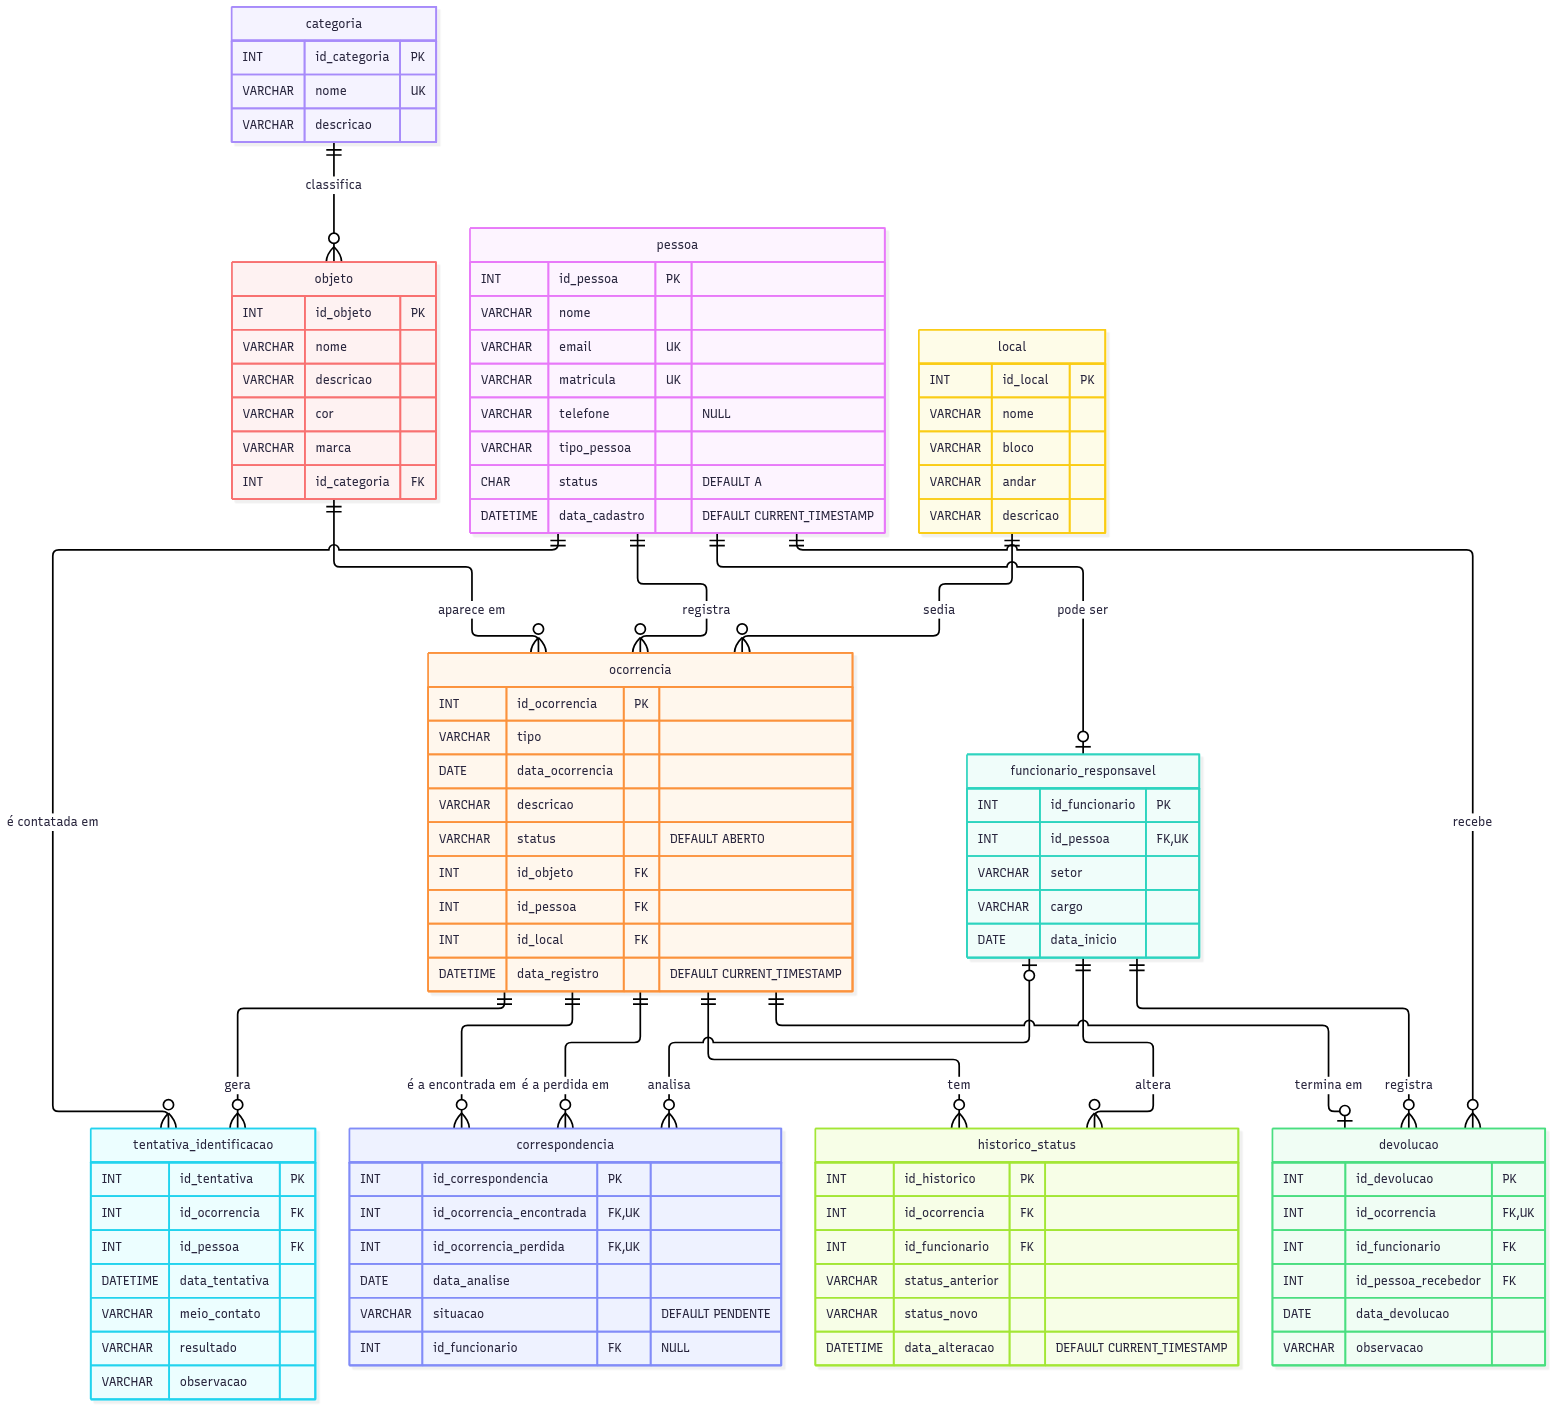
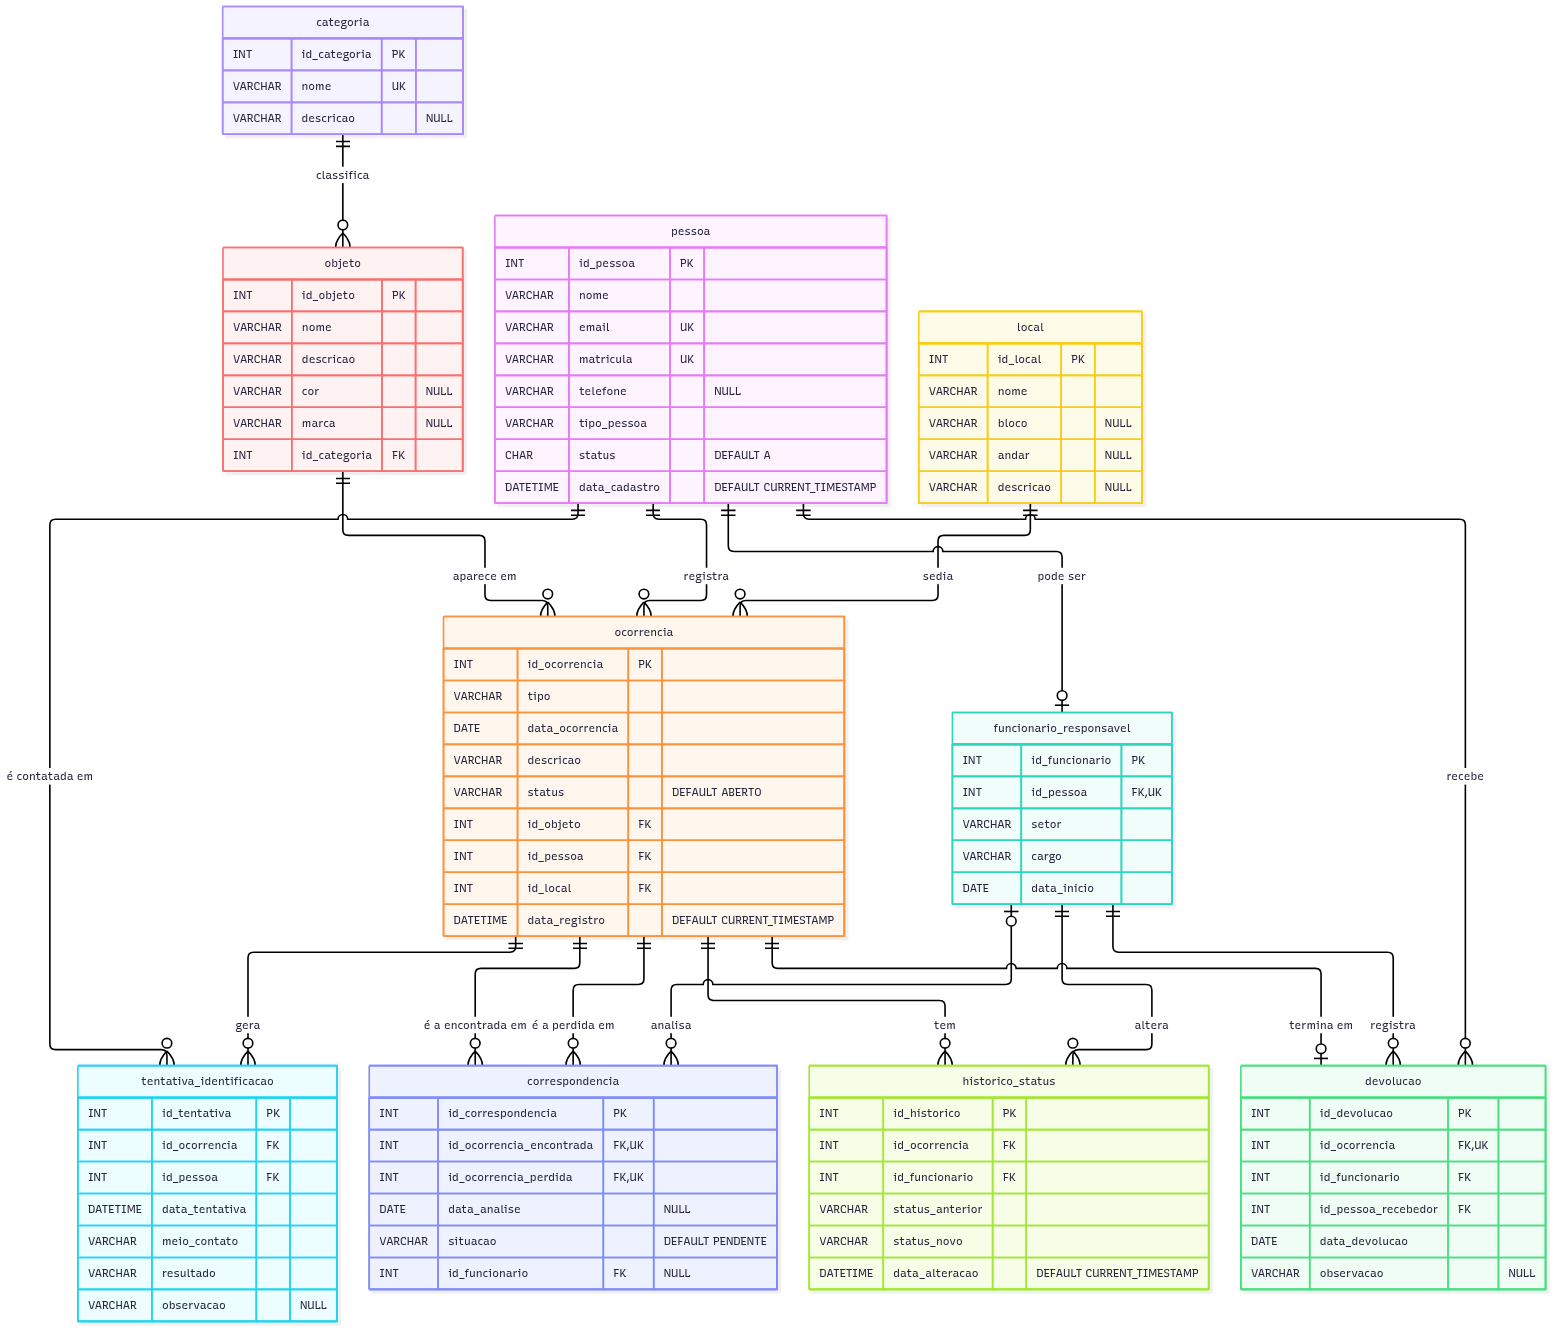
docs: add data dictionary and mark nullable columns in diagram

diff --git a/docs/dicionario_dados.md b/docs/dicionario_dados.md
@@ -1,0 +1,203 @@
+# Dicionário de Dados: EncontraAFYA
+
+Este documento descreve as tabelas e colunas do banco de dados. As regras de negócio citadas (RN) estão em [proposta.md](proposta.md).
+
+**Convenções**
+
+- Todas as tabelas usam `ENGINE=InnoDB` e `DEFAULT CHARSET=utf8mb4`.
+- Toda chave primária é `INT AUTO_INCREMENT`.
+- As restrições têm nome próprio, com os prefixos `fk_` (chave estrangeira), `ck_` (CHECK) e `uq_` (UNIQUE).
+- Colunas com um conjunto fechado de valores usam `VARCHAR(20)` com CHECK.
+
+## 1. `pessoa`
+
+Alunos, professores e funcionários que usam o sistema.
+
+| Coluna | Tipo | Restrições | Descrição |
+|---|---|---|---|
+| `id_pessoa` | INT | PK, AUTO_INCREMENT | Identificador da pessoa |
+| `nome` | VARCHAR(120) | NOT NULL | Nome completo |
+| `email` | VARCHAR(120) | NOT NULL, UNIQUE (`uq_pessoa_email`) | E-mail de contato |
+| `matricula` | VARCHAR(15) | NOT NULL, UNIQUE (`uq_pessoa_matricula`) | Matrícula na instituição |
+| `telefone` | VARCHAR(20) | NULL | Telefone de contato, de preenchimento opcional |
+| `tipo_pessoa` | VARCHAR(20) | NOT NULL, CHECK (`ck_pessoa_tipo_pessoa`) | Vínculo com a instituição |
+| `status` | CHAR(1) | NOT NULL, DEFAULT 'A', CHECK (`ck_pessoa_status`) | Situação do cadastro |
+| `data_cadastro` | DATETIME | NOT NULL, DEFAULT CURRENT_TIMESTAMP | Momento do cadastro |
+
+**Valores permitidos**
+
+- `tipo_pessoa`: `ALUNO`, `PROFESSOR`, `FUNCIONARIO`.
+- `status`: `A` (ativa), `I` (inativa).
+
+## 2. `funcionario_responsavel`
+
+Dados específicos das pessoas autorizadas a conduzir o processo. Relação 1:1 com `pessoa`.
+
+| Coluna | Tipo | Restrições | Descrição |
+|---|---|---|---|
+| `id_funcionario` | INT | PK, AUTO_INCREMENT | Identificador do funcionário responsável |
+| `id_pessoa` | INT | NOT NULL, UNIQUE (`uq_funcionario_responsavel_id_pessoa`), FK | Pessoa correspondente |
+| `setor` | VARCHAR(60) | NOT NULL | Setor em que trabalha |
+| `cargo` | VARCHAR(60) | NOT NULL | Cargo exercido |
+| `data_inicio` | DATE | NOT NULL | Data em que passou a atuar como responsável |
+
+## 3. `categoria`
+
+Classificação dos objetos.
+
+| Coluna | Tipo | Restrições | Descrição |
+|---|---|---|---|
+| `id_categoria` | INT | PK, AUTO_INCREMENT | Identificador da categoria |
+| `nome` | VARCHAR(60) | NOT NULL, UNIQUE (`uq_categoria_nome`) | Nome da categoria |
+| `descricao` | VARCHAR(255) | NULL | Detalhes sobre o que a categoria abrange |
+
+## 4. `local`
+
+Lugares do campus onde objetos são perdidos ou encontrados.
+
+| Coluna | Tipo | Restrições | Descrição |
+|---|---|---|---|
+| `id_local` | INT | PK, AUTO_INCREMENT | Identificador do local |
+| `nome` | VARCHAR(80) | NOT NULL | Nome do local |
+| `bloco` | VARCHAR(20) | NULL | Bloco do campus; vazio em áreas fora dos blocos, como o estacionamento |
+| `andar` | VARCHAR(20) | NULL | Andar; vazio em áreas sem andares |
+| `descricao` | VARCHAR(255) | NULL | Referências para localizar o lugar |
+
+## 5. `objeto`
+
+Características do item perdido ou encontrado.
+
+| Coluna | Tipo | Restrições | Descrição |
+|---|---|---|---|
+| `id_objeto` | INT | PK, AUTO_INCREMENT | Identificador do objeto |
+| `nome` | VARCHAR(80) | NOT NULL | Nome do objeto |
+| `descricao` | VARCHAR(255) | NOT NULL | Características que ajudam a identificá-lo |
+| `cor` | VARCHAR(30) | NULL | Cor predominante; vazia quando não se aplica |
+| `marca` | VARCHAR(60) | NULL | Marca; vazia quando não há marca identificável |
+| `id_categoria` | INT | NOT NULL, FK | Categoria do objeto |
+
+## 6. `ocorrencia`
+
+Registro de que um objeto foi perdido ou encontrado.
+
+| Coluna | Tipo | Restrições | Descrição |
+|---|---|---|---|
+| `id_ocorrencia` | INT | PK, AUTO_INCREMENT | Identificador da ocorrência |
+| `tipo` | VARCHAR(20) | NOT NULL, CHECK (`ck_ocorrencia_tipo`) | Natureza da ocorrência |
+| `data_ocorrencia` | DATE | NOT NULL | Data em que o objeto foi perdido ou encontrado |
+| `descricao` | VARCHAR(255) | NOT NULL | Relato do que aconteceu |
+| `status` | VARCHAR(20) | NOT NULL, DEFAULT 'ABERTO', CHECK (`ck_ocorrencia_status`) | Situação atual da ocorrência |
+| `id_objeto` | INT | NOT NULL, FK | Objeto envolvido |
+| `id_pessoa` | INT | NOT NULL, FK | Pessoa que registrou a ocorrência |
+| `id_local` | INT | NOT NULL, FK | Local do fato |
+| `data_registro` | DATETIME | NOT NULL, DEFAULT CURRENT_TIMESTAMP | Momento em que a ocorrência foi registrada |
+
+**Valores permitidos**
+
+- `tipo`: `PERDIDO`, `ENCONTRADO`.
+- `status`:
+  - `ABERTO`: registrada e ainda não analisada.
+  - `EM_ANALISE`: em análise por um funcionário responsável.
+  - `DEVOLVIDO`: objeto entregue; usado apenas em ocorrências de ENCONTRADO.
+  - `ENCERRADO`: processo finalizado sem registro próprio de devolução, como a ocorrência de PERDIDO cujo objeto foi devolvido.
+
+## 7. `tentativa_identificacao`
+
+Contatos feitos para identificar o dono de um objeto. Tabela associativa da relação N:N entre `ocorrencia` e `pessoa`.
+
+| Coluna | Tipo | Restrições | Descrição |
+|---|---|---|---|
+| `id_tentativa` | INT | PK, AUTO_INCREMENT | Identificador da tentativa |
+| `id_ocorrencia` | INT | NOT NULL, FK | Ocorrência relacionada |
+| `id_pessoa` | INT | NOT NULL, FK | Pessoa que alegou ser dona ou foi contatada |
+| `data_tentativa` | DATETIME | NOT NULL | Momento do contato |
+| `meio_contato` | VARCHAR(20) | NOT NULL, CHECK (`ck_tentativa_identificacao_meio_contato`) | Meio utilizado |
+| `resultado` | VARCHAR(20) | NOT NULL, CHECK (`ck_tentativa_identificacao_resultado`) | Resultado do contato |
+| `observacao` | VARCHAR(255) | NULL | Informações adicionais |
+
+**Valores permitidos**
+
+- `meio_contato`: `EMAIL`, `TELEFONE`, `PRESENCIAL`, `WHATSAPP`.
+- `resultado`: `CONFIRMADO`, `NAO_CONFIRMADO`, `SEM_RESPOSTA`.
+
+## 8. `correspondencia`
+
+Comparação entre uma ocorrência de ENCONTRADO e uma de PERDIDO. Tabela associativa da relação N:N de `ocorrencia` com ela mesma.
+
+| Coluna | Tipo | Restrições | Descrição |
+|---|---|---|---|
+| `id_correspondencia` | INT | PK, AUTO_INCREMENT | Identificador da correspondência |
+| `id_ocorrencia_encontrada` | INT | NOT NULL, FK | Ocorrência do tipo ENCONTRADO |
+| `id_ocorrencia_perdida` | INT | NOT NULL, FK | Ocorrência do tipo PERDIDO |
+| `data_analise` | DATE | NULL | Data da análise; vazia enquanto a correspondência não foi analisada |
+| `situacao` | VARCHAR(20) | NOT NULL, DEFAULT 'PENDENTE', CHECK (`ck_correspondencia_situacao`) | Resultado da comparação |
+| `id_funcionario` | INT | NULL, FK | Funcionário que analisou; vazio enquanto não houver análise |
+
+**Restrições da tabela**
+
+- `uq_correspondencia_par`: UNIQUE composto em (`id_ocorrencia_encontrada`, `id_ocorrencia_perdida`). O mesmo par não se repete, mas cada ocorrência pode aparecer em vários pares.
+- `ck_correspondencia_ocorrencias`: CHECK (`id_ocorrencia_encontrada` <> `id_ocorrencia_perdida`). Uma ocorrência não pode ser comparada com ela mesma.
+
+**Valores permitidos**
+
+- `situacao`: `PENDENTE`, `CONFIRMADA`, `DESCARTADA`.
+
+## 9. `devolucao`
+
+Entrega do objeto a quem o recebeu. Relação 1:1 com `ocorrencia`.
+
+| Coluna | Tipo | Restrições | Descrição |
+|---|---|---|---|
+| `id_devolucao` | INT | PK, AUTO_INCREMENT | Identificador da devolução |
+| `id_ocorrencia` | INT | NOT NULL, UNIQUE (`uq_devolucao_id_ocorrencia`), FK | Ocorrência de ENCONTRADO devolvida |
+| `id_funcionario` | INT | NOT NULL, FK | Funcionário que registrou a devolução |
+| `id_pessoa_recebedor` | INT | NOT NULL, FK | Pessoa que recebeu o objeto |
+| `data_devolucao` | DATE | NOT NULL | Data da entrega |
+| `observacao` | VARCHAR(255) | NULL | Informações adicionais |
+
+## 10. `historico_status`
+
+Trilha das mudanças de status. Tabela associativa da relação N:N entre `ocorrencia` e `funcionario_responsavel`.
+
+| Coluna | Tipo | Restrições | Descrição |
+|---|---|---|---|
+| `id_historico` | INT | PK, AUTO_INCREMENT | Identificador do registro |
+| `id_ocorrencia` | INT | NOT NULL, FK | Ocorrência alterada |
+| `id_funcionario` | INT | NOT NULL, FK | Funcionário que fez a alteração |
+| `status_anterior` | VARCHAR(20) | NOT NULL, CHECK (`ck_historico_status_anterior`) | Status antes da mudança |
+| `status_novo` | VARCHAR(20) | NOT NULL, CHECK (`ck_historico_status_novo`) | Status depois da mudança |
+| `data_alteracao` | DATETIME | NOT NULL, DEFAULT CURRENT_TIMESTAMP | Momento da mudança |
+
+**Restrições da tabela**
+
+- `ck_historico_status_diferente`: CHECK (`status_anterior` <> `status_novo`). Uma mudança precisa alterar o status.
+
+**Valores permitidos**
+
+- `status_anterior` e `status_novo`: `ABERTO`, `EM_ANALISE`, `DEVOLVIDO`, `ENCERRADO`.
+
+## 11. Chaves estrangeiras
+
+| Restrição | Coluna | Referencia | ON DELETE | ON UPDATE |
+|---|---|---|---|---|
+| `fk_funcionario_responsavel_pessoa` | `funcionario_responsavel.id_pessoa` | `pessoa` | RESTRICT | CASCADE |
+| `fk_objeto_categoria` | `objeto.id_categoria` | `categoria` | RESTRICT | CASCADE |
+| `fk_ocorrencia_objeto` | `ocorrencia.id_objeto` | `objeto` | RESTRICT | CASCADE |
+| `fk_ocorrencia_pessoa` | `ocorrencia.id_pessoa` | `pessoa` | RESTRICT | CASCADE |
+| `fk_ocorrencia_local` | `ocorrencia.id_local` | `local` | RESTRICT | CASCADE |
+| `fk_tentativa_identificacao_ocorrencia` | `tentativa_identificacao.id_ocorrencia` | `ocorrencia` | CASCADE | CASCADE |
+| `fk_tentativa_identificacao_pessoa` | `tentativa_identificacao.id_pessoa` | `pessoa` | RESTRICT | CASCADE |
+| `fk_correspondencia_encontrada` | `correspondencia.id_ocorrencia_encontrada` | `ocorrencia` | RESTRICT | RESTRICT |
+| `fk_correspondencia_perdida` | `correspondencia.id_ocorrencia_perdida` | `ocorrencia` | RESTRICT | RESTRICT |
+| `fk_correspondencia_funcionario` | `correspondencia.id_funcionario` | `funcionario_responsavel` | SET NULL | CASCADE |
+| `fk_devolucao_ocorrencia` | `devolucao.id_ocorrencia` | `ocorrencia` | RESTRICT | CASCADE |
+| `fk_devolucao_funcionario` | `devolucao.id_funcionario` | `funcionario_responsavel` | RESTRICT | CASCADE |
+| `fk_devolucao_recebedor` | `devolucao.id_pessoa_recebedor` | `pessoa` | RESTRICT | CASCADE |
+| `fk_historico_status_ocorrencia` | `historico_status.id_ocorrencia` | `ocorrencia` | RESTRICT | CASCADE |
+| `fk_historico_status_funcionario` | `historico_status.id_funcionario` | `funcionario_responsavel` | RESTRICT | CASCADE |
+
+O padrão `ON DELETE RESTRICT ON UPDATE CASCADE` impede a exclusão de registros com dependências (RN11) e mantém as referências corretas se um identificador mudar. As exceções são:
+
+- **`fk_tentativa_identificacao_ocorrencia`:** usa `ON DELETE CASCADE` porque uma tentativa não existe sem a ocorrência.
+- **`fk_correspondencia_funcionario`:** usa `ON DELETE SET NULL` porque a correspondência continua válida sem o analista.
+- **`fk_correspondencia_encontrada` e `fk_correspondencia_perdida`:** usam `RESTRICT` nas duas ações porque as colunas fazem parte de um CHECK, e o MySQL não aceita `ON UPDATE CASCADE` nesse caso (erro 3823).
